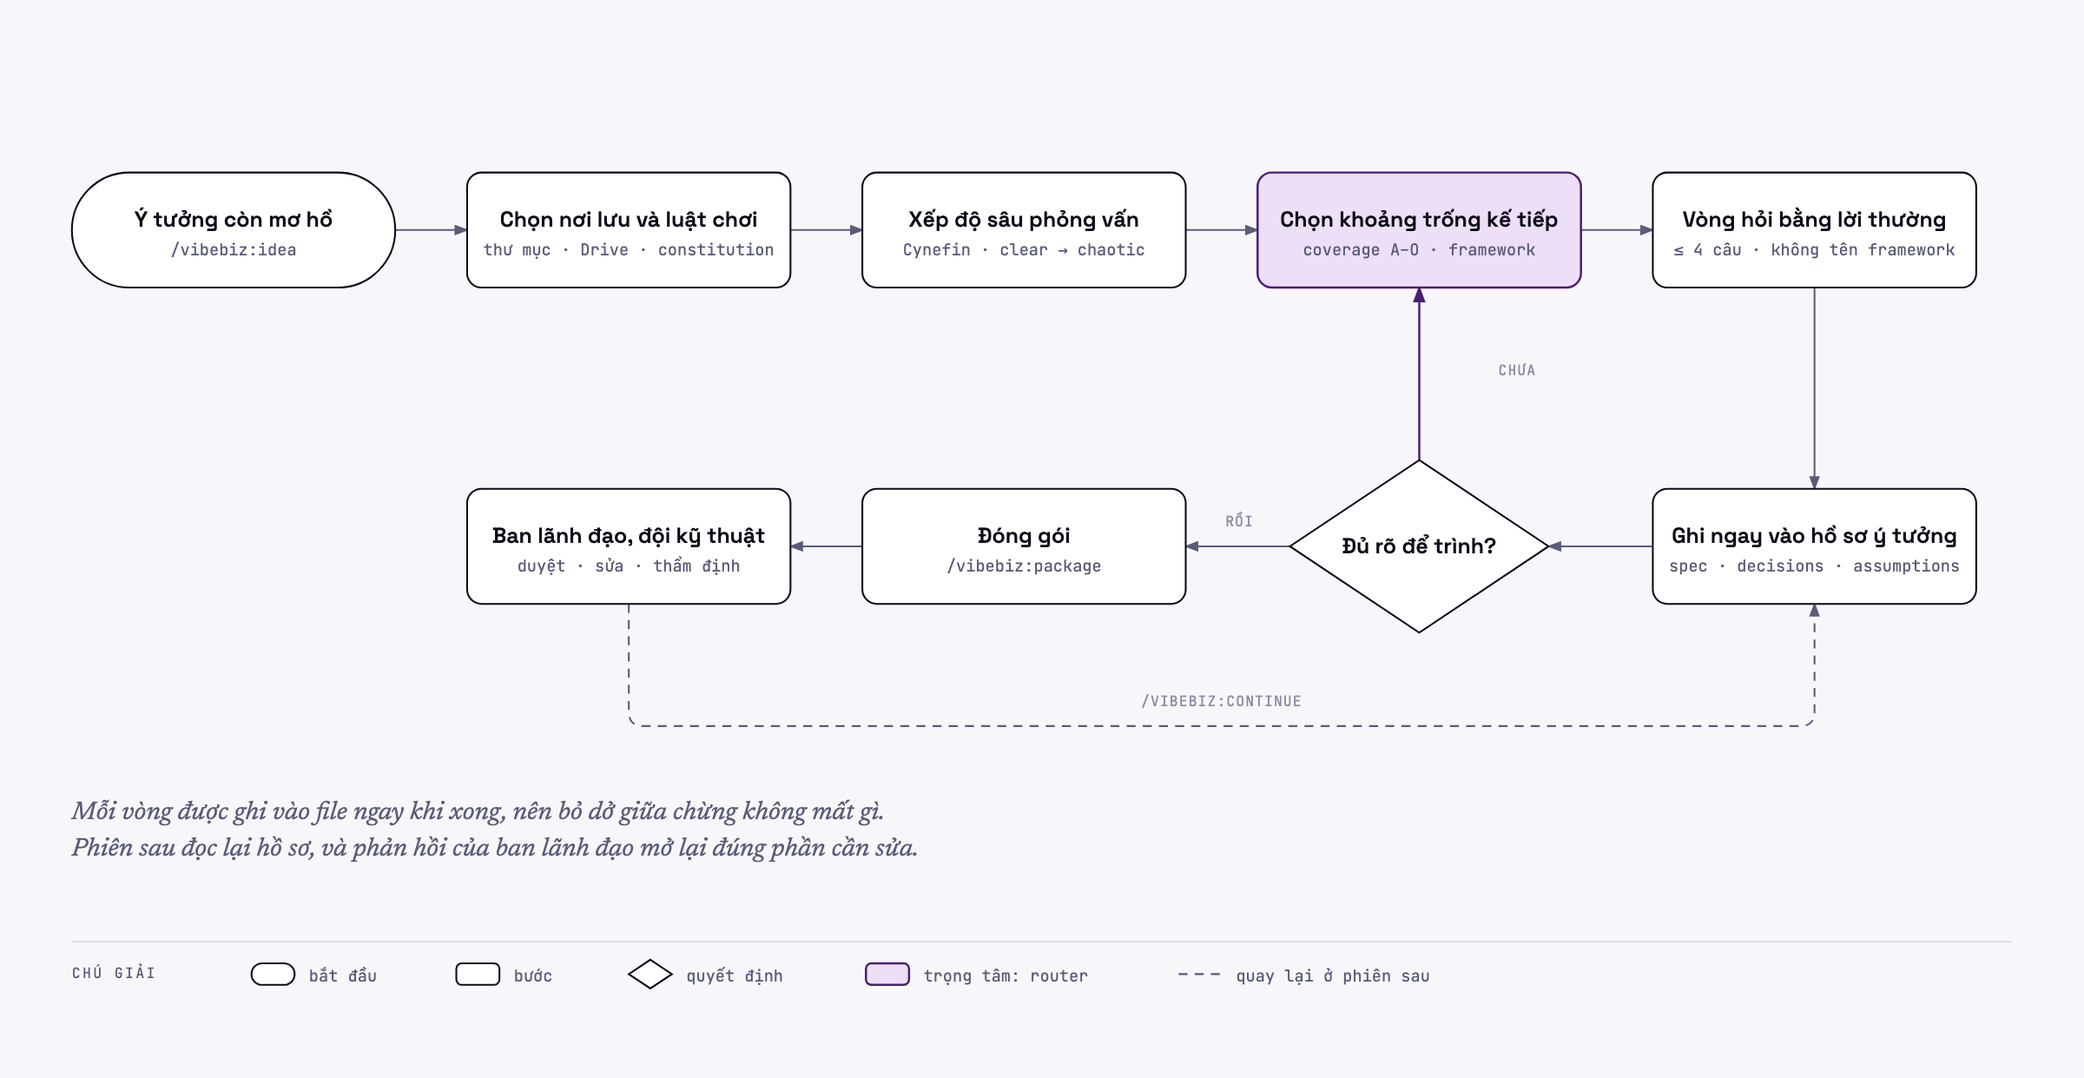
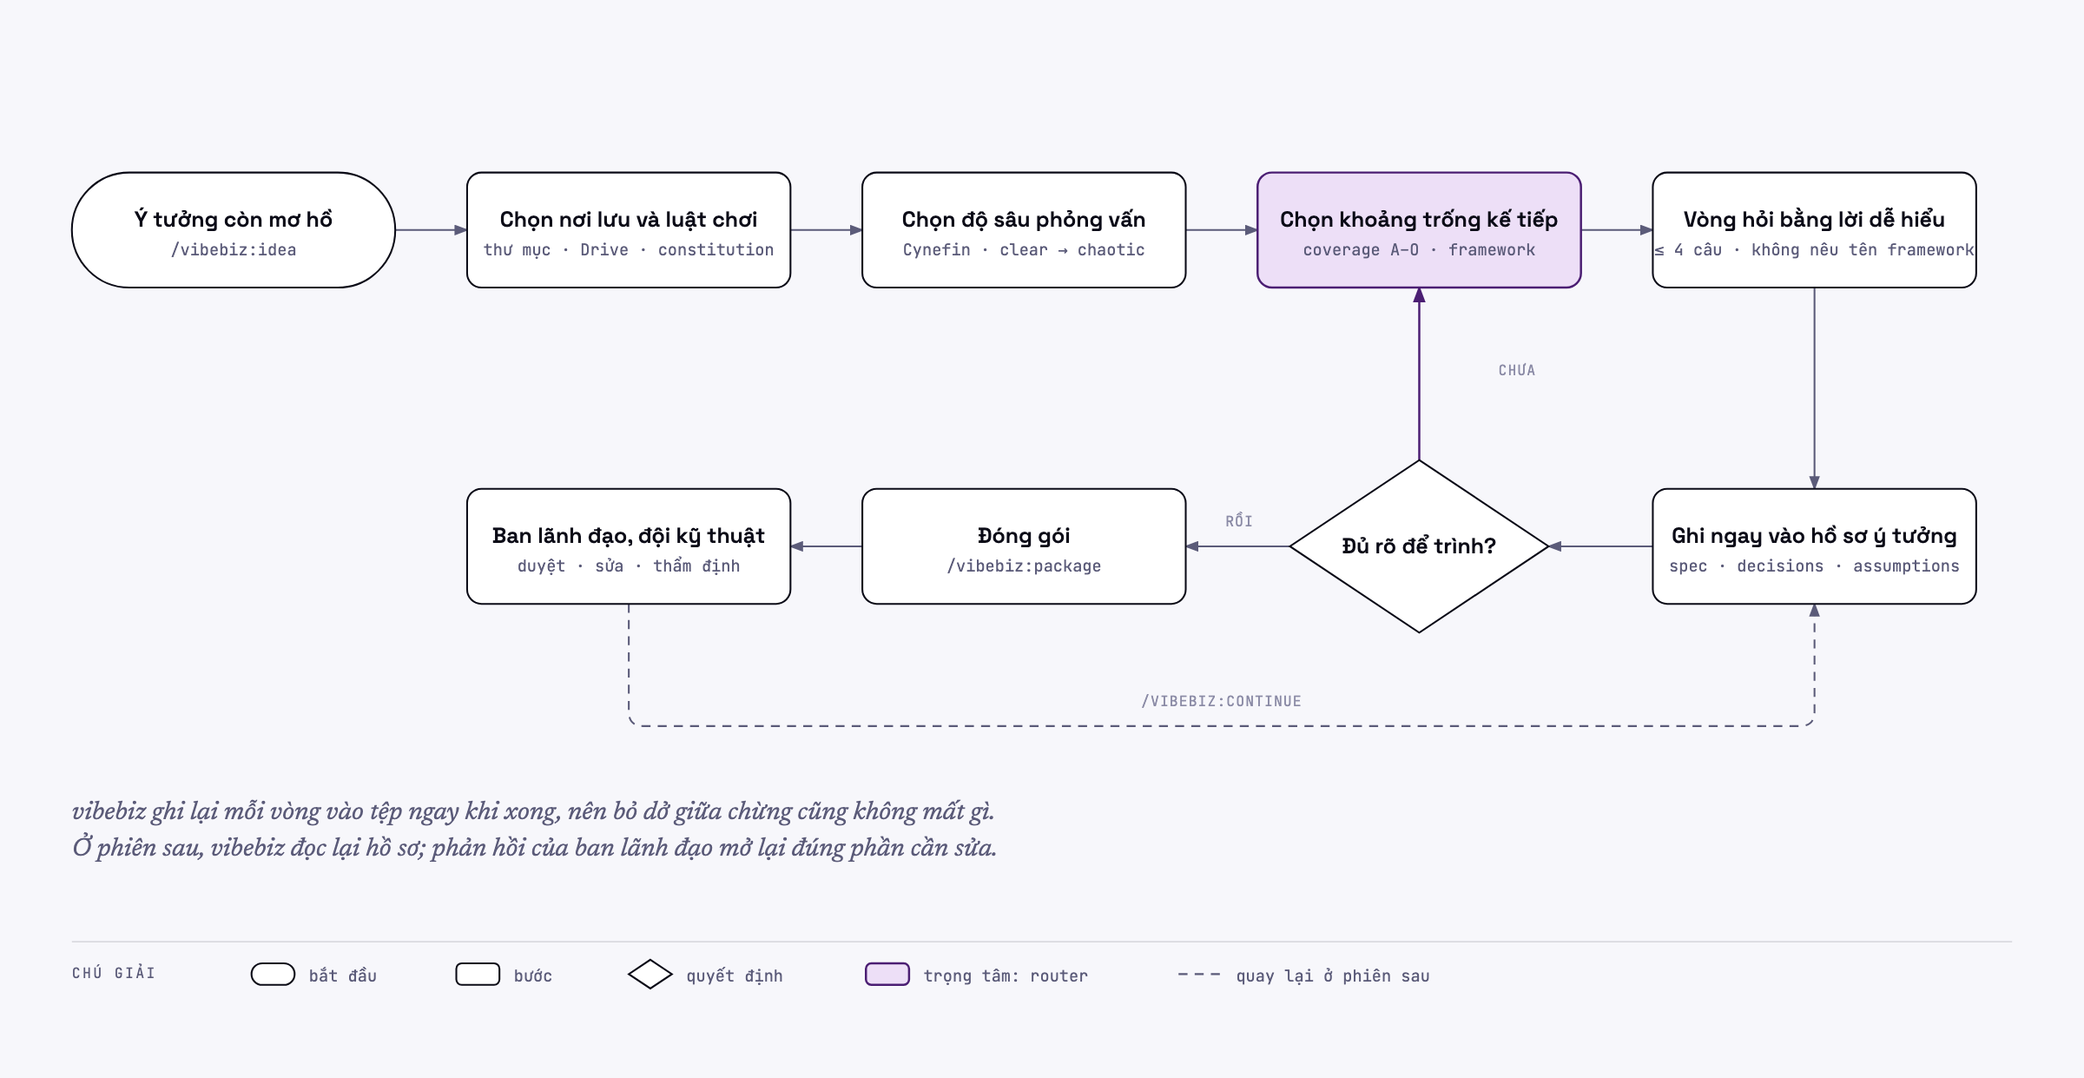
Edit the Vietnamese diagram and README wording
Vietnamizer pass on the "vibebiz làm việc thế nào" section and the
four Vietnamese diagrams: active voice with a clear subject, plain
words instead of calques ("card nối tiếp", "vướng mắc"), no English
where a non-technical reader would trip, and the missing verbs
restored. Vietnamese PNGs and both HTML sources regenerated; the
English images are unchanged.

Changed region(s): [[0.0312, 0.7349, 0.4688, 0.7961], [0.8125, 0.1837, 0.9375, 0.245], [0.4375, 0.1837, 0.5625, 0.2143]]

diff --git a/assets/diagrams/src/card-selection.vi.html b/assets/diagrams/src/card-selection.vi.html
@@ -21,7 +21,7 @@ footer{margin-top:1.5rem;padding-top:.75rem;border-top:1px solid rgba(11,11,23,0
 <body><div class="frame">
 <p class="eyebrow">Logic chọn framework</p>
 <h1>Mỗi vòng, vibebiz chọn framework thế nào</h1>
-<p class="sub">Người dùng không bao giờ chọn framework. Router lọc theo khoảng trống còn mở, rồi ưu tiên card được kết quả của card trước nuôi, nên cuộc phỏng vấn đào sâu liền mạch thay vì nhảy giữa các bộ câu hỏi.</p>
+<p class="sub">Người dùng không bao giờ chọn framework. Router lọc theo khoảng trống còn mở, rồi ưu tiên card dùng được kết quả của card trước, nên cuộc phỏng vấn đào sâu liền mạch thay vì nhảy giữa các bộ câu hỏi.</p>
 <div class="wrap">
 <svg viewBox="0 0 1100 900" xmlns="http://www.w3.org/2000/svg" role="img" aria-labelledby="vibebiz-card-selection-title vibebiz-card-selection-desc">
 <title id="vibebiz-card-selection-title">Mỗi vòng, vibebiz chọn framework thế nào</title>
@@ -70,10 +70,10 @@ footer{margin-top:1.5rem;padding-top:.75rem;border-top:1px solid rgba(11,11,23,0
 <rect x="800" y="376" width="240" height="64" rx="8" fill="#F7F7FB"/>
 <rect x="800" y="376" width="240" height="64" rx="8" fill="#ffffff" stroke="#0B0B17" stroke-width="1"/>
 <text x="920" y="406" fill="#0B0B17" font-size="12" font-weight="600" font-family="'Space Grotesk', sans-serif" text-anchor="middle">Lens tự hỏi theo cách riêng</text>
-<text x="920" y="422" fill="#5B5B79" font-size="9" font-family="'JetBrains Mono', monospace" text-anchor="middle">không ép framework</text>
+<text x="920" y="422" fill="#5B5B79" font-size="9" font-family="'JetBrains Mono', monospace" text-anchor="middle">không dùng framework</text>
 <rect x="480" y="496" width="240" height="64" rx="8" fill="#F7F7FB"/>
 <rect x="480" y="496" width="240" height="64" rx="8" fill="#EDDFF7" stroke="#4B1E73" stroke-width="1.2"/>
-<text x="600" y="526" fill="#0B0B17" font-size="12" font-weight="600" font-family="'Space Grotesk', sans-serif" text-anchor="middle">Ưu tiên card được nuôi</text>
+<text x="600" y="526" fill="#0B0B17" font-size="12" font-weight="600" font-family="'Space Grotesk', sans-serif" text-anchor="middle">Ưu tiên card nối tiếp</text>
 <text x="600" y="542" fill="#5B5B79" font-size="9" font-family="'JetBrains Mono', monospace" text-anchor="middle">feeds · When to use · Cynefin</text>
 <rect x="480" y="600" width="240" height="64" rx="8" fill="#F7F7FB"/>
 <rect x="480" y="600" width="240" height="64" rx="8" fill="#ffffff" stroke="#0B0B17" stroke-width="1"/>
@@ -82,7 +82,7 @@ footer{margin-top:1.5rem;padding-top:.75rem;border-top:1px solid rgba(11,11,23,0
 <rect x="480" y="704" width="240" height="64" rx="8" fill="#F7F7FB"/>
 <rect x="480" y="704" width="240" height="64" rx="8" fill="#ffffff" stroke="#0B0B17" stroke-width="1"/>
 <text x="600" y="734" fill="#0B0B17" font-size="12" font-weight="600" font-family="'Space Grotesk', sans-serif" text-anchor="middle">Hỏi phần còn thiếu</text>
-<text x="600" y="750" fill="#5B5B79" font-size="9" font-family="'JetBrains Mono', monospace" text-anchor="middle">lời thường · không tên framework</text>
+<text x="600" y="750" fill="#5B5B79" font-size="9" font-family="'JetBrains Mono', monospace" text-anchor="middle">lời dễ hiểu · không nêu tên</text>
 <text x="40" y="600" fill="#5B5B79" font-size="14" font-style="italic" font-family="'Newsreader', serif">Lọc bỏ card đã dùng ở mục này,</text>
 <text x="40" y="620" fill="#5B5B79" font-size="14" font-style="italic" font-family="'Newsreader', serif">card thiếu điều kiện needs,</text>
 <text x="40" y="640" fill="#5B5B79" font-size="14" font-style="italic" font-family="'Newsreader', serif">và card cùng nhóm instead_of</text>
@@ -90,7 +90,7 @@ footer{margin-top:1.5rem;padding-top:.75rem;border-top:1px solid rgba(11,11,23,0
 <text x="760" y="520" fill="#5B5B79" font-size="14" font-style="italic" font-family="'Newsreader', serif">Dữ kiện đổi, hoặc ban lãnh đạo</text>
 <text x="760" y="540" fill="#5B5B79" font-size="14" font-style="italic" font-family="'Newsreader', serif">yêu cầu sửa: card liên quan</text>
 <text x="760" y="560" fill="#5B5B79" font-size="14" font-style="italic" font-family="'Newsreader', serif">quay lại hàng đợi, rồi tới</text>
-<text x="760" y="580" fill="#5B5B79" font-size="14" font-style="italic" font-family="'Newsreader', serif">các card nó nuôi.</text>
+<text x="760" y="580" fill="#5B5B79" font-size="14" font-style="italic" font-family="'Newsreader', serif">các card nối tiếp nó.</text>
 <line x1="40" y1="824" x2="1060" y2="824" stroke="rgba(11,11,23,0.12)" stroke-width="0.8"/>
 <text x="40" y="844" fill="#5B5B79" font-size="8" font-family="'JetBrains Mono', monospace" letter-spacing="0.14em">CHÚ GIẢI</text>
 <rect x="140" y="836" width="24" height="12" rx="6" fill="#ffffff" stroke="#0B0B17"/>

diff --git a/assets/diagrams/src/workflow.vi.html b/assets/diagrams/src/workflow.vi.html
@@ -57,7 +57,7 @@ footer{margin-top:1.5rem;padding-top:.75rem;border-top:1px solid rgba(11,11,23,0
 <text x="350" y="142" fill="#5B5B79" font-size="9" font-family="'JetBrains Mono', monospace" text-anchor="middle">thư mục · Drive · constitution</text>
 <rect x="480" y="96" width="180" height="64" rx="8" fill="#F7F7FB"/>
 <rect x="480" y="96" width="180" height="64" rx="8" fill="#ffffff" stroke="#0B0B17" stroke-width="1"/>
-<text x="570" y="126" fill="#0B0B17" font-size="12" font-weight="600" font-family="'Space Grotesk', sans-serif" text-anchor="middle">Xếp độ sâu phỏng vấn</text>
+<text x="570" y="126" fill="#0B0B17" font-size="12" font-weight="600" font-family="'Space Grotesk', sans-serif" text-anchor="middle">Chọn độ sâu phỏng vấn</text>
 <text x="570" y="142" fill="#5B5B79" font-size="9" font-family="'JetBrains Mono', monospace" text-anchor="middle">Cynefin · clear → chaotic</text>
 <rect x="700" y="96" width="180" height="64" rx="8" fill="#F7F7FB"/>
 <rect x="700" y="96" width="180" height="64" rx="8" fill="#EDDFF7" stroke="#4B1E73" stroke-width="1.2"/>
@@ -65,8 +65,8 @@ footer{margin-top:1.5rem;padding-top:.75rem;border-top:1px solid rgba(11,11,23,0
 <text x="790" y="142" fill="#5B5B79" font-size="9" font-family="'JetBrains Mono', monospace" text-anchor="middle">coverage A–O · framework</text>
 <rect x="920" y="96" width="180" height="64" rx="8" fill="#F7F7FB"/>
 <rect x="920" y="96" width="180" height="64" rx="8" fill="#ffffff" stroke="#0B0B17" stroke-width="1"/>
-<text x="1010" y="126" fill="#0B0B17" font-size="12" font-weight="600" font-family="'Space Grotesk', sans-serif" text-anchor="middle">Vòng hỏi bằng lời thường</text>
-<text x="1010" y="142" fill="#5B5B79" font-size="9" font-family="'JetBrains Mono', monospace" text-anchor="middle">≤ 4 câu · không tên framework</text>
+<text x="1010" y="126" fill="#0B0B17" font-size="12" font-weight="600" font-family="'Space Grotesk', sans-serif" text-anchor="middle">Vòng hỏi bằng lời dễ hiểu</text>
+<text x="1010" y="142" fill="#5B5B79" font-size="9" font-family="'JetBrains Mono', monospace" text-anchor="middle">≤ 4 câu · không nêu tên framework</text>
 <rect x="920" y="272" width="180" height="64" rx="8" fill="#F7F7FB"/>
 <rect x="920" y="272" width="180" height="64" rx="8" fill="#ffffff" stroke="#0B0B17" stroke-width="1"/>
 <text x="1010" y="302" fill="#0B0B17" font-size="12" font-weight="600" font-family="'Space Grotesk', sans-serif" text-anchor="middle">Ghi ngay vào hồ sơ ý tưởng</text>
@@ -82,8 +82,8 @@ footer{margin-top:1.5rem;padding-top:.75rem;border-top:1px solid rgba(11,11,23,0
 <rect x="260" y="272" width="180" height="64" rx="8" fill="#ffffff" stroke="#0B0B17" stroke-width="1"/>
 <text x="350" y="302" fill="#0B0B17" font-size="12" font-weight="600" font-family="'Space Grotesk', sans-serif" text-anchor="middle">Ban lãnh đạo, đội kỹ thuật</text>
 <text x="350" y="318" fill="#5B5B79" font-size="9" font-family="'JetBrains Mono', monospace" text-anchor="middle">duyệt · sửa · thẩm định</text>
-<text x="40" y="456" fill="#5B5B79" font-size="14" font-style="italic" font-family="'Newsreader', serif">Mỗi vòng được ghi vào file ngay khi xong, nên bỏ dở giữa chừng không mất gì.</text>
-<text x="40" y="476" fill="#5B5B79" font-size="14" font-style="italic" font-family="'Newsreader', serif">Phiên sau đọc lại hồ sơ, và phản hồi của ban lãnh đạo mở lại đúng phần cần sửa.</text>
+<text x="40" y="456" fill="#5B5B79" font-size="14" font-style="italic" font-family="'Newsreader', serif">vibebiz ghi lại mỗi vòng vào tệp ngay khi xong, nên bỏ dở giữa chừng cũng không mất gì.</text>
+<text x="40" y="476" fill="#5B5B79" font-size="14" font-style="italic" font-family="'Newsreader', serif">Ở phiên sau, vibebiz đọc lại hồ sơ; phản hồi của ban lãnh đạo mở lại đúng phần cần sửa.</text>
 <line x1="40" y1="524" x2="1120" y2="524" stroke="rgba(11,11,23,0.12)" stroke-width="0.8"/>
 <text x="40" y="544" fill="#5B5B79" font-size="8" font-family="'JetBrains Mono', monospace" letter-spacing="0.14em">CHÚ GIẢI</text>
 <rect x="140" y="536" width="24" height="12" rx="6" fill="#ffffff" stroke="#0B0B17"/>

diff --git a/assets/diagrams/src/route-next.vi.html b/assets/diagrams/src/route-next.vi.html
@@ -21,7 +21,7 @@ footer{margin-top:1.5rem;padding-top:.75rem;border-top:1px solid rgba(11,11,23,0
 <body><div class="frame">
 <p class="eyebrow">Decision tree · phần 2</p>
 <h1>Đi tiếp thế nào</h1>
-<p class="sub">Từ Driver tree, agent dựa vào ngữ cảnh đã ghi trong hồ sơ ý tưởng để rẽ nhánh: thử nghiệm hay lường trước rủi ro, mua hay tự làm, rồi chuẩn bị con người trước khi triển khai theo từng cổng.</p>
+<p class="sub">Từ Driver tree, vibebiz dựa vào ngữ cảnh đã ghi trong hồ sơ ý tưởng để rẽ nhánh: thử nghiệm hay lường trước rủi ro, mua hay tự làm, rồi chuẩn bị con người trước khi triển khai theo từng cổng.</p>
 <div class="wrap">
 <svg viewBox="0 0 1100 880" xmlns="http://www.w3.org/2000/svg" role="img" aria-labelledby="vibebiz-route-next-title vibebiz-route-next-desc">
 <title id="vibebiz-route-next-title">Đi tiếp thế nào</title>
@@ -59,7 +59,7 @@ footer{margin-top:1.5rem;padding-top:.75rem;border-top:1px solid rgba(11,11,23,0
 <text x="540" y="86" fill="#5B5B79" font-size="9" font-family="'JetBrains Mono', monospace" text-anchor="middle">chỉ số chính và các nhánh</text>
 <polygon points="540,132 660,176 540,220 420,176" fill="#F7F7FB"/>
 <polygon points="540,132 660,176 540,220 420,176" fill="#ffffff" stroke="#0B0B17" stroke-width="1"/>
-<text x="540" y="180" fill="#0B0B17" font-size="12" font-weight="600" font-family="'Space Grotesk', sans-serif" text-anchor="middle">Còn tùy phản ứng của người?</text>
+<text x="540" y="180" fill="#0B0B17" font-size="12" font-weight="600" font-family="'Space Grotesk', sans-serif" text-anchor="middle">Còn tùy khách, nhân viên?</text>
 <rect x="760" y="144" width="280" height="64" rx="8" fill="#F7F7FB"/>
 <rect x="760" y="144" width="280" height="64" rx="8" fill="#ffffff" stroke="#0B0B17" stroke-width="1"/>
 <text x="900" y="174" fill="#0B0B17" font-size="12" font-weight="600" font-family="'Space Grotesk', sans-serif" text-anchor="middle">Assumption map → Pilot</text>
@@ -74,7 +74,7 @@ footer{margin-top:1.5rem;padding-top:.75rem;border-top:1px solid rgba(11,11,23,0
 <rect x="760" y="364" width="280" height="64" rx="8" fill="#F7F7FB"/>
 <rect x="760" y="364" width="280" height="64" rx="8" fill="#ffffff" stroke="#0B0B17" stroke-width="1"/>
 <text x="900" y="394" fill="#0B0B17" font-size="12" font-weight="600" font-family="'Space Grotesk', sans-serif" text-anchor="middle">Build · buy · partner → TCO → NPV</text>
-<text x="900" y="410" fill="#5B5B79" font-size="9" font-family="'JetBrains Mono', monospace" text-anchor="middle">so ba đường, tiền theo năm</text>
+<text x="900" y="410" fill="#5B5B79" font-size="9" font-family="'JetBrains Mono', monospace" text-anchor="middle">so ba hướng, chi phí theo năm</text>
 <rect x="420" y="480" width="240" height="64" rx="8" fill="#F7F7FB"/>
 <rect x="420" y="480" width="240" height="64" rx="8" fill="#ffffff" stroke="#0B0B17" stroke-width="1"/>
 <text x="540" y="510" fill="#0B0B17" font-size="12" font-weight="600" font-family="'Space Grotesk', sans-serif" text-anchor="middle">MoSCoW hoặc RICE</text>
@@ -82,7 +82,7 @@ footer{margin-top:1.5rem;padding-top:.75rem;border-top:1px solid rgba(11,11,23,0
 <rect x="420" y="600" width="240" height="64" rx="8" fill="#F7F7FB"/>
 <rect x="420" y="600" width="240" height="64" rx="8" fill="#ffffff" stroke="#0B0B17" stroke-width="1"/>
 <text x="540" y="630" fill="#0B0B17" font-size="12" font-weight="600" font-family="'Space Grotesk', sans-serif" text-anchor="middle">ADKAR hoặc Kotter</text>
-<text x="540" y="646" fill="#5B5B79" font-size="9" font-family="'JetBrains Mono', monospace" text-anchor="middle">một nhóm đổi việc · cả chuỗi</text>
+<text x="540" y="646" fill="#5B5B79" font-size="9" font-family="'JetBrains Mono', monospace" text-anchor="middle">một nhóm đổi cách làm · cả chuỗi</text>
 <rect x="420" y="704" width="240" height="48" rx="24" fill="#F7F7FB"/>
 <rect x="420" y="704" width="240" height="48" rx="24" fill="#ffffff" stroke="#0B0B17" stroke-width="1"/>
 <text x="540" y="732" fill="#0B0B17" font-size="12" font-weight="600" font-family="'Space Grotesk', sans-serif" text-anchor="middle">Stage-gate</text>

diff --git a/assets/diagrams/src/route-start.vi.html b/assets/diagrams/src/route-start.vi.html
@@ -21,7 +21,7 @@ footer{margin-top:1.5rem;padding-top:.75rem;border-top:1px solid rgba(11,11,23,0
 <body><div class="frame">
 <p class="eyebrow">Decision tree · phần 1</p>
 <h1>Bắt đầu từ đâu</h1>
-<p class="sub">Agent nhìn vào thứ người dùng mang tới để chọn framework đầu tiên, rồi để kết quả của nó dẫn sang framework thứ hai. Người dùng chỉ thấy câu hỏi bằng lời thường.</p>
+<p class="sub">vibebiz nhìn vào điều người dùng mang tới để chọn framework đầu tiên, rồi để kết quả của nó dẫn sang framework thứ hai. Người dùng chỉ thấy câu hỏi bằng lời thường.</p>
 <div class="wrap">
 <svg viewBox="0 0 1160 600" xmlns="http://www.w3.org/2000/svg" role="img" aria-labelledby="vibebiz-route-start-title vibebiz-route-start-desc">
 <title id="vibebiz-route-start-title">Bắt đầu từ đâu</title>
@@ -59,7 +59,7 @@ footer{margin-top:1.5rem;padding-top:.75rem;border-top:1px solid rgba(11,11,23,0
 <rect x="580" y="56" width="220" height="64" rx="8" fill="#ffffff" stroke="#0B0B17" stroke-width="1"/>
 <text x="690" y="86" fill="#0B0B17" font-size="12" font-weight="600" font-family="'Space Grotesk', sans-serif" text-anchor="middle">Issue tree</text>
 <text x="690" y="102" fill="#5B5B79" font-size="9" font-family="'JetBrains Mono', monospace" text-anchor="middle">chia nhỏ, không trùng lặp</text>
-<text x="40" y="182" fill="#0B0B17" font-size="12" font-weight="600" font-family="'Space Grotesk', sans-serif">Một giải pháp nghĩ sẵn</text>
+<text x="40" y="182" fill="#0B0B17" font-size="12" font-weight="600" font-family="'Space Grotesk', sans-serif">Một giải pháp đã nghĩ sẵn</text>
 <text x="40" y="198" fill="#5B5B79" font-size="9" font-family="'JetBrains Mono', monospace">muốn làm app · muốn dùng AI</text>
 <rect x="320" y="152" width="220" height="64" rx="8" fill="#F7F7FB"/>
 <rect x="320" y="152" width="220" height="64" rx="8" fill="#ffffff" stroke="#0B0B17" stroke-width="1"/>
@@ -68,7 +68,7 @@ footer{margin-top:1.5rem;padding-top:.75rem;border-top:1px solid rgba(11,11,23,0
 <rect x="580" y="152" width="220" height="64" rx="8" fill="#F7F7FB"/>
 <rect x="580" y="152" width="220" height="64" rx="8" fill="#ffffff" stroke="#0B0B17" stroke-width="1"/>
 <text x="690" y="182" fill="#0B0B17" font-size="12" font-weight="600" font-family="'Space Grotesk', sans-serif" text-anchor="middle">Value Proposition Canvas</text>
-<text x="690" y="198" fill="#5B5B79" font-size="9" font-family="'JetBrains Mono', monospace" text-anchor="middle">nỗi đau · lợi ích</text>
+<text x="690" y="198" fill="#5B5B79" font-size="9" font-family="'JetBrains Mono', monospace" text-anchor="middle">vướng mắc · lợi ích</text>
 <text x="40" y="278" fill="#0B0B17" font-size="12" font-weight="600" font-family="'Space Grotesk', sans-serif">Một quy trình nội bộ chậm</text>
 <text x="40" y="294" fill="#5B5B79" font-size="9" font-family="'JetBrains Mono', monospace">gom đơn bằng tay · duyệt lâu</text>
 <rect x="320" y="248" width="220" height="64" rx="8" fill="#F7F7FB"/>
@@ -88,7 +88,7 @@ footer{margin-top:1.5rem;padding-top:.75rem;border-top:1px solid rgba(11,11,23,0
 <rect x="580" y="344" width="220" height="64" rx="8" fill="#F7F7FB"/>
 <rect x="580" y="344" width="220" height="64" rx="8" fill="#ffffff" stroke="#0B0B17" stroke-width="1"/>
 <text x="690" y="374" fill="#0B0B17" font-size="12" font-weight="600" font-family="'Space Grotesk', sans-serif" text-anchor="middle">SWOT</text>
-<text x="690" y="390" fill="#5B5B79" font-size="9" font-family="'JetBrains Mono', monospace" text-anchor="middle">mạnh, yếu trước cơ hội</text>
+<text x="690" y="390" fill="#5B5B79" font-size="9" font-family="'JetBrains Mono', monospace" text-anchor="middle">điểm mạnh, yếu trước cơ hội</text>
 <rect x="900" y="200" width="220" height="64" rx="8" fill="#F7F7FB"/>
 <rect x="900" y="200" width="220" height="64" rx="8" fill="#EDDFF7" stroke="#4B1E73" stroke-width="1.2"/>
 <text x="1010" y="230" fill="#0B0B17" font-size="12" font-weight="600" font-family="'Space Grotesk', sans-serif" text-anchor="middle">Driver tree</text>

diff --git a/README.vi.md b/README.vi.md
@@ -42,7 +42,7 @@ vibebiz không phải công cụ lập trình. Trong Cowork, bạn không bao gi
 
 ## vibebiz làm việc thế nào
 
-vibebiz làm theo từng vòng: mỗi vòng chọn một chỗ còn trống của ý tưởng, hỏi bằng lời thường rồi ghi câu trả lời vào tệp của bạn, cho tới khi ý tưởng đủ rõ để đóng gói.
+vibebiz làm theo từng vòng: mỗi vòng chọn một chỗ còn trống của ý tưởng, hỏi bằng lời dễ hiểu rồi ghi câu trả lời vào tệp của bạn, cho tới khi ý tưởng đủ rõ để đóng gói.
 
 ![Quy trình vibebiz, từ ý tưởng mơ hồ đến bộ tài liệu cho ban lãnh đạo và đội kỹ thuật](assets/diagrams/workflow.vi.png)
 
@@ -52,7 +52,7 @@ Trong mỗi vòng, vibebiz tự chọn phương pháp phân tích (framework), b
 
 ![Đi tiếp thế nào: từ cây chỉ số, dữ kiện trong hồ sơ quyết định chạy thử hay lường trước rủi ro, mua hay tự làm, và chuẩn bị con người ra sao](assets/diagrams/route-next.vi.png)
 
-![Mỗi vòng vibebiz chọn phương pháp thế nào: chỗ còn trống, lọc, ưu tiên phương pháp nối tiếp kết quả trước, chỉ hỏi phần còn thiếu](assets/diagrams/card-selection.vi.png)
+![Mỗi vòng vibebiz chọn phương pháp thế nào: chỗ còn trống, lọc, ưu tiên phương pháp dùng được kết quả của bước trước, chỉ hỏi phần còn thiếu](assets/diagrams/card-selection.vi.png)
 
 ## Dành cho ai
 
